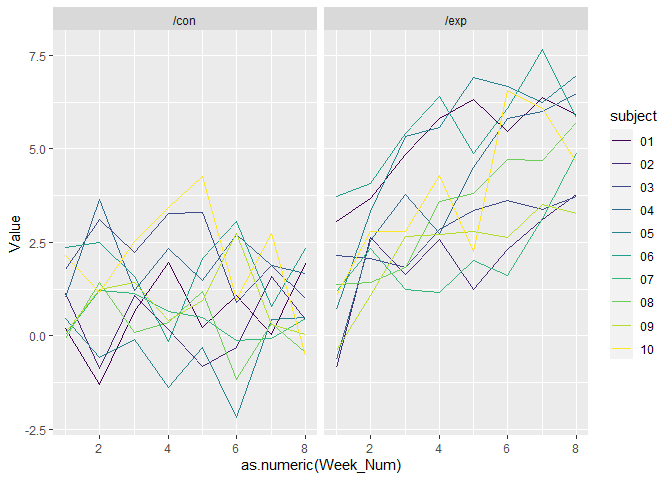
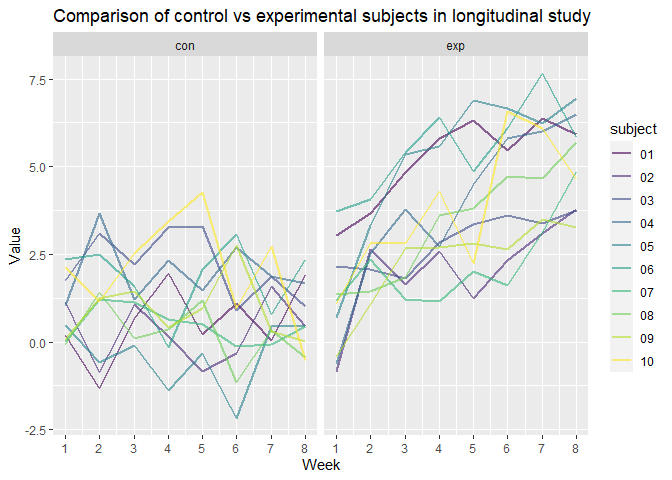
Completion of problem 2 including detailed plot of tidied study data frame and descriptions

diff --git a/P8105_HW5_ah4028.md b/P8105_HW5_ah4028.md
@@ -15,7 +15,7 @@ study_import = function(path) { #creating function to import and tidy csv files
     mutate(
       ID = path #creating ID variable from path name
     ) |>
-    separate(ID, into = c("folder", "arm", "a", "subject", "csv"), sep = c(12, 16, 17, 19)) |> #separating ID into relevant sections
+    separate(ID, into = c("folder", "arm", "a", "subject", "csv"), sep = c(13, 16, 17, 19)) |> #separating ID into relevant sections
     arrange(arm, subject) |> #arranging by study arm and subject number
   pivot_longer(week_1:week_8,
                names_to = "Week",
@@ -28,11 +28,24 @@ study_df_tidy = map(file_names, study_import) |>
   bind_rows() #merging all resulting files
 ```
 
+Now, we can plot the results of the study per subject, separated by
+control(`con`) vs experimental(`exp`) over duration of the study.
+
 ``` r
 study_df_tidy |> 
   ggplot(aes(x = as.numeric(Week_Num), y = Value, color = subject)) +
-  facet_grid(~arm) + 
-  geom_line(aes(color = subject))
+  facet_grid(~arm) + #separate control vs experimental arm
+   geom_line(aes(color = subject), alpha = 0.6, linewidth = 0.9) +
+  labs(title = "Comparison of control vs experimental subjects in longitudinal study", x = "Week") + #title and x axis label
+  scale_x_continuous(breaks = c(1, 2, 3, 4, 5, 6, 7, 8)) #ensuring week 1 through 8
 ```
 
 ![](P8105_HW5_ah4028_files/figure-gfm/study_plot-1.png)<!-- -->
+
+From the plot, we can see that the experimental group experienced larger
+increases in value over the eight weeks while the control group values
+stayed relatively stable. The experimental group had a variety of
+subjects who had large increases in value at varying points, all of
+which who eventually ended higher than their starting value. The control
+group on the other hand, tended to stay within similar bounds with less
+extreme changes in value.
